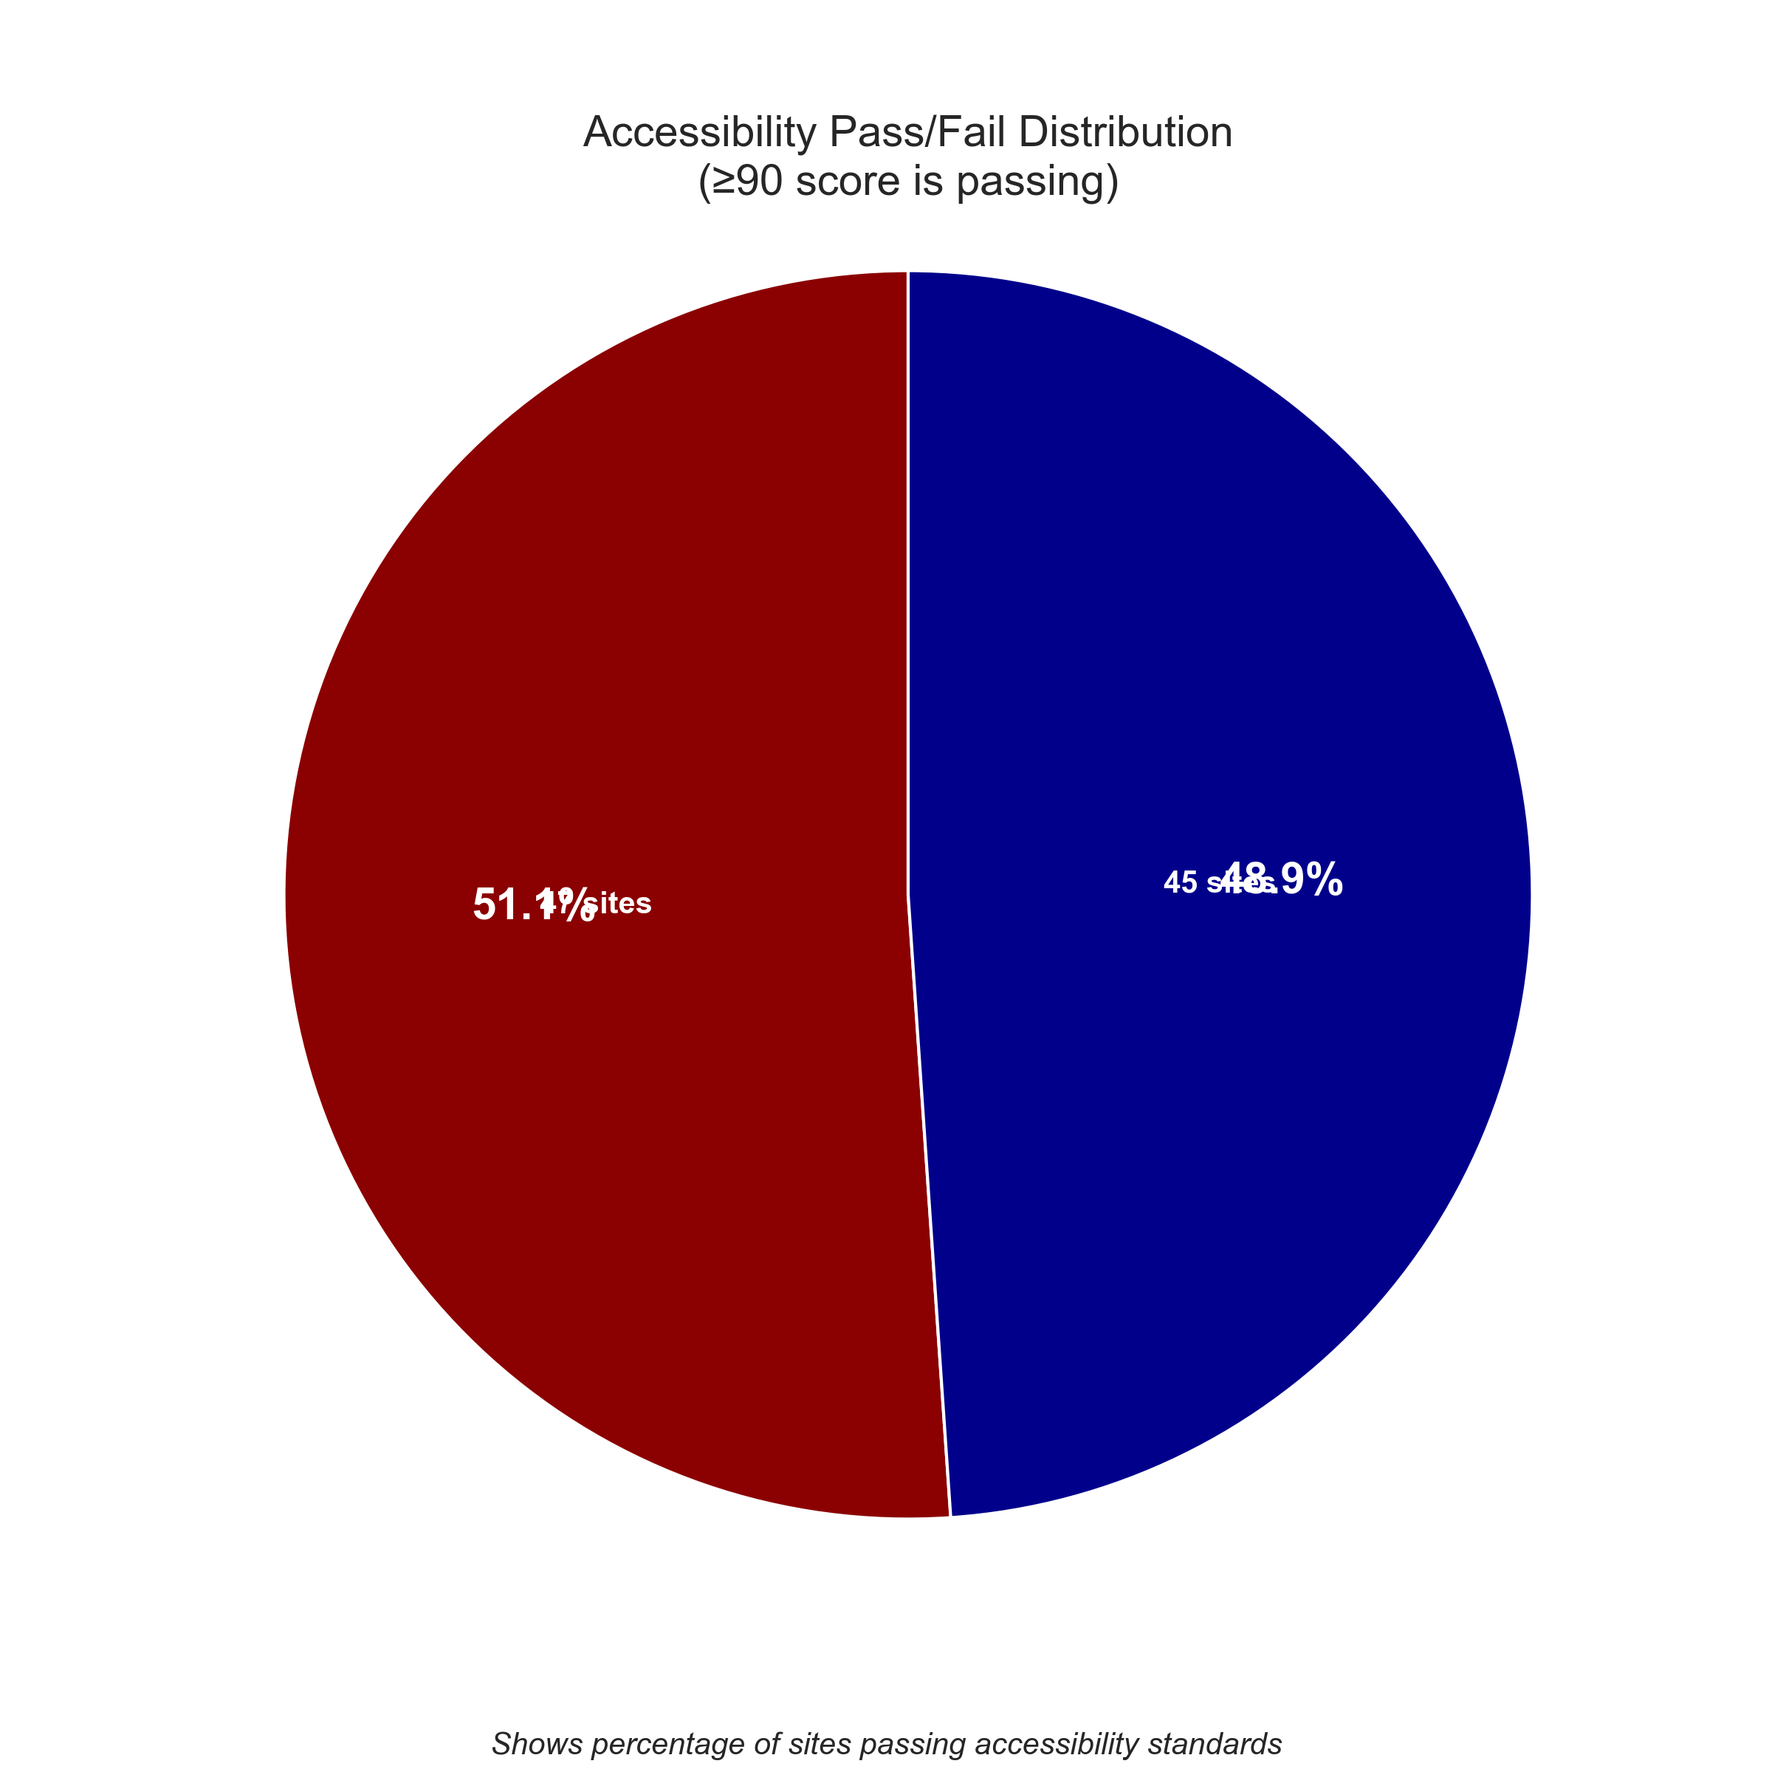
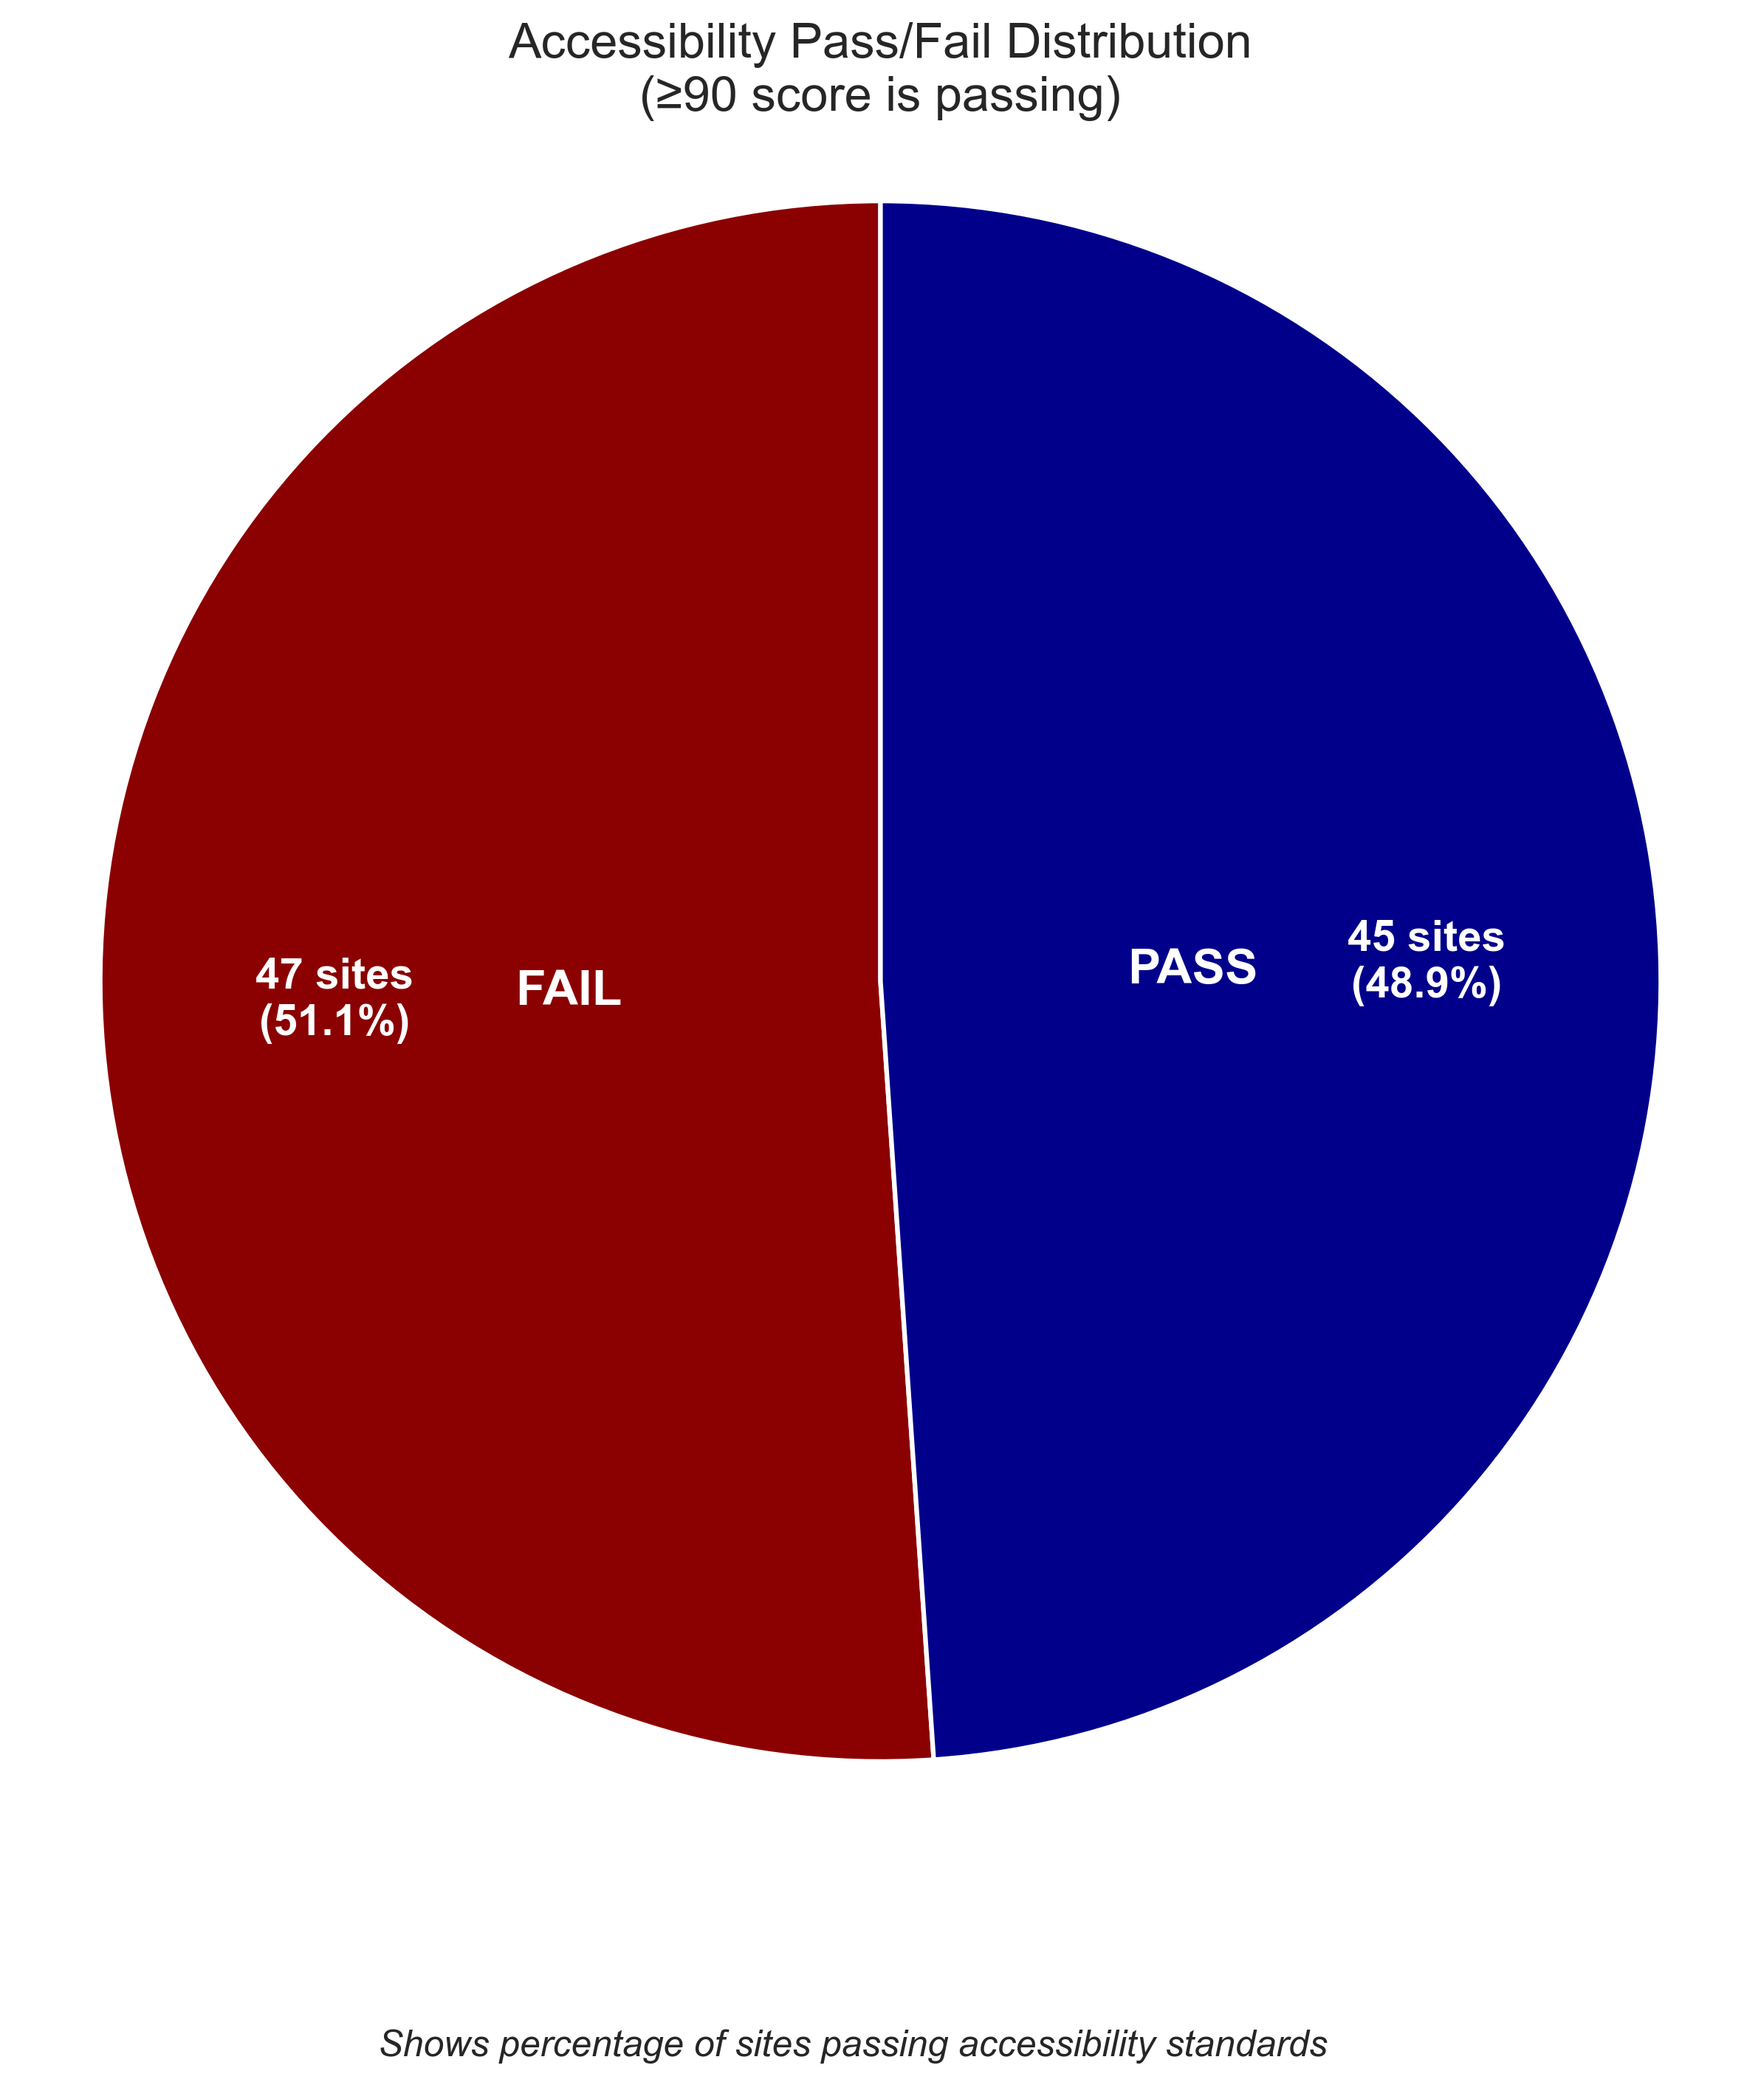
Improve pie chart readability: added 'PASS/FAIL' labels, larger text, and better positioning

diff --git a/analytics_and_eda.py b/analytics_and_eda.py
@@ -187,7 +187,7 @@ def analyze_accessibility_issues(df):
     
     # Create pass/fail distribution visualization
     if 'AccessibilityResult' in df.columns:
-        plt.figure(figsize=(8, 8))
+        plt.figure(figsize=(10, 10))  # Larger figure
         pass_counts = df['AccessibilityResult'].value_counts()
         
         # Get actual counts for annotations
@@ -196,31 +196,58 @@ def analyze_accessibility_issues(df):
         total_count = pass_count + fail_count
         
         # Create pie chart with detailed labels
-        wedges, texts, autotexts = plt.pie(pass_counts, labels=pass_counts.index, 
-                autopct='%1.1f%%', startangle=90,
-                colors=['#8B0000','#00008B'], textprops={'color': 'white', 'fontweight': 'bold'})
+        wedges, _ = plt.pie(  # Note: only need to capture wedges
+            pass_counts, 
+            labels=None,  # Remove default labels, we'll add custom ones
+            autopct=None,  # Remove default percentage, we'll add custom ones
+            startangle=90,
+            colors=['#8B0000','#00008B'], 
+            wedgeprops={'edgecolor': 'white', 'linewidth': 1.5}
+        )
         
-        # Add count information inside the wedges
+        # Add custom labels with pass/fail status, count and percentage
         for i, wedge in enumerate(wedges):
             count = pass_count if i == 1 else fail_count  # Adjust based on your data order
+            pct = 100 * count / total_count
+            status = "PASS" if i == 1 else "FAIL"
+            
             ang = (wedge.theta2 - wedge.theta1) / 2. + wedge.theta1
             y = np.sin(np.deg2rad(ang))
             x = np.cos(np.deg2rad(ang))
             
-            # Determine text color based on background
-            plt.annotate(f'{count} sites', 
-                     xy=(x * 0.5, y * 0.5),  # Use radius of 0.5 to place inside
-                     ha='center', va='center',
-                     fontsize=10, fontweight='bold',
-                     color='white')
+            # Status label (PASS/FAIL)
+            plt.annotate(
+                status, 
+                xy=(x * 0.4, y * 0.4),  # Position closer to center
+                ha='center', va='center',
+                fontsize=16, fontweight='bold',  # Larger font
+                color='white'
+            )
+            
+            # Count and percentage
+            plt.annotate(
+                f"{count} sites\n({pct:.1f}%)", 
+                xy=(x * 0.7, y * 0.7),  # Position further from center
+                ha='center', va='center',
+                fontsize=14, fontweight='bold',  # Larger font
+                color='white'
+            )
                 
         plt.axis('equal')
-        plt.title('Accessibility Pass/Fail Distribution\n(≥90 score is passing)', fontsize=14)
-        plt.figtext(0.5, 0.01, 'Shows percentage of sites passing accessibility standards',
-                   ha='center', fontsize=10, fontstyle='italic')
+        plt.title('Accessibility Pass/Fail Distribution\n(≥90 score is passing)', fontsize=16)
+        
+        # Move explanation text to a better position
+        plt.figtext(
+            0.5, 0.01, 
+            'Shows percentage of sites passing accessibility standards',
+            ha='center', 
+            fontsize=12,  # Larger font
+            fontstyle='italic',
+            bbox={'facecolor': 'white', 'alpha': 0.7, 'pad': 5}
+        )
         
         file_path = os.path.join(output_dir, "pass_fail_distribution.png")
-        plt.savefig(file_path)
+        plt.savefig(file_path, bbox_inches='tight', dpi=300)
         print(f"Saved pass/fail distribution to {file_path}")
     
     # Return the dictionary rather than the sorted list for compatibility with existing functions
@@ -290,36 +317,58 @@ def create_accessibility_dashboard(df):
         # Get actual counts for annotations
         pass_count = pass_counts.get('Pass', 0)
         fail_count = pass_counts.get('Fail', 0)
+        total_count = pass_count + fail_count
         
-        # Create pie chart
-        wedges, texts, autotexts = ax_pass_fail.pie(
+        # Create pie chart without default labels
+        wedges, _ = ax_pass_fail.pie(  # Note: only need to capture wedges
             pass_counts, 
-            labels=pass_counts.index, 
-            autopct='%1.1f%%', 
+            labels=None,  # Remove default labels
+            autopct=None,  # Remove default percentage
             startangle=90,
-            colors=['#8B0000','#00008B'], 
-            textprops={'color': 'white', 'fontweight': 'bold'}
+            colors=['#8B0000','#00008B'],
+            wedgeprops={'edgecolor': 'white', 'linewidth': 1.5}
         )
         
-        # Add count information inside the wedges
+        # Add custom labels with pass/fail status, count and percentage
         for i, wedge in enumerate(wedges):
-            count = pass_count if i == 1 else fail_count  # Adjust based on your data order
+            count = pass_count if i == 1 else fail_count
+            pct = 100 * count / total_count
+            status = "PASS" if i == 1 else "FAIL"
+            
             ang = (wedge.theta2 - wedge.theta1) / 2. + wedge.theta1
             y = np.sin(np.deg2rad(ang))
             x = np.cos(np.deg2rad(ang))
             
-            ax_pass_fail.annotate(f'{count} sites', 
-                              xy=(x * 0.5, y * 0.5),  # Use radius of 0.5 to place inside
-                              ha='center', va='center',
-                              fontsize=9, fontweight='bold',
-                              color='white')
-                
-        ax_pass_fail.set_title('Accessibility Pass/Fail Distribution (≥90)')
+            # Status label (PASS/FAIL)
+            ax_pass_fail.annotate(
+                status, 
+                xy=(x * 0.4, y * 0.4),  # Position closer to center
+                ha='center', va='center',
+                fontsize=14, fontweight='bold',  # Larger font
+                color='white'
+            )
+            
+            # Count and percentage
+            ax_pass_fail.annotate(
+                f"{count} sites\n({pct:.1f}%)", 
+                xy=(x * 0.7, y * 0.7),  # Position further from center
+                ha='center', va='center',
+                fontsize=11, fontweight='bold',
+                color='white'
+            )
+        
+        ax_pass_fail.set_title('Accessibility Pass/Fail Distribution (≥90)', fontsize=14)
         ax_pass_fail.axis('equal')
         
-        # Add descriptive text
-        ax_pass_fail.text(0, -1.3, 'Proportion of sites meeting accessibility standards', 
-                        ha='center', fontsize=9, fontstyle='italic')
+        # Add descriptive text with background for better readability
+        ax_pass_fail.text(
+            0, -1.3, 
+            'Proportion of sites meeting accessibility standards', 
+            ha='center', 
+            fontsize=10, 
+            fontstyle='italic',
+            bbox={'facecolor': 'white', 'alpha': 0.7, 'pad': 5}
+        )
     
     # 3. Top Issues Bar Chart
     ax_issues = fig.add_subplot(gs[1, 0])
@@ -664,52 +713,69 @@ def analyze_severity_distribution(df):
             print(f"\nSeverity from {tested_sites} sites: {', '.join([f'{k}: {v}' for k, v in severity_data.items()])}")
             
             # Create a single figure with a pie chart
-            plt.figure(figsize=(12, 9))
+            plt.figure(figsize=(12, 10))  # Larger figure
             
             # Define colors for severity levels using red and blue palette
             colors = {'High': '#8B0000', 'Medium': '#D21F3C', 'Low': '#00008B', 'Unknown': '#808080'}
             sorted_data = sorted(severity_data.items(), 
                                key=lambda x: {'High': 0, 'Medium': 1, 'Low': 2, 'Unknown': 3}.get(x[0], 4))
-            labels = [f"{k}" for k, _ in sorted_data]  # Simplify main labels
-            sizes = [v for _, v in sorted_data]
             
-            # Explode the high severity slice
-            explode = [0.1 if k[0] == 'High' else 0.05 if k[0] == 'Medium' else 0 for k in sorted_data]
-            
-            # Create pie chart
-            wedges, texts, autotexts = plt.pie(
-                sizes, 
-                explode=explode, 
-                labels=labels, 
-                autopct='%1.1f%%', 
+            # Create pie chart without default labels and percentages
+            wedges, _ = plt.pie(  # Note: only need to capture wedges
+                [v for _, v in sorted_data], 
+                explode=[0.1 if k[0] == 'High' else 0.05 if k[0] == 'Medium' else 0 for k in sorted_data],
+                labels=None,  # Remove default labels
+                autopct=None,  # Remove default percentages
                 startangle=90,
                 colors=[colors.get(k, '#BDBDBD') for k, _ in sorted_data], 
-                shadow=True, 
-                textprops={'color': 'white', 'fontweight': 'bold'}
+                shadow=True,
+                wedgeprops={'edgecolor': 'white', 'linewidth': 1}
             )
             
-            # Add count inside each wedge
+            # Add custom labels with severity level, count and percentage
             for i, (k, v) in enumerate(sorted_data):
                 ang = (wedges[i].theta2 - wedges[i].theta1) / 2. + wedges[i].theta1
                 y = np.sin(np.deg2rad(ang))
                 x = np.cos(np.deg2rad(ang))
+                pct = 100 * v / sum(v for _, v in sorted_data)
                 
                 # Adjust radius based on the wedge size
-                radius = 0.5
-                if v / sum(sizes) < 0.1:  # For very small wedges
-                    radius = 0.7
+                severity_radius = 0.35  # For severity label (closer to center)
+                count_radius = 0.7     # For count and percentage (further from center)
                 
-                # Add count inside
-                plt.annotate(f'{v} sites', 
-                         xy=(x * radius, y * radius),
-                         ha='center', va='center',
-                         fontsize=9, fontweight='bold',
-                         color='white')
+                if pct < 10:  # For very small wedges
+                    count_radius = 0.85
+                
+                # Add severity level
+                plt.annotate(
+                    k.upper(), 
+                    xy=(x * severity_radius, y * severity_radius),
+                    ha='center', va='center',
+                    fontsize=14, fontweight='bold',  # Larger font
+                    color='white'
+                )
+                
+                # Add count and percentage
+                plt.annotate(
+                    f"{v} sites\n({pct:.1f}%)", 
+                    xy=(x * count_radius, y * count_radius),
+                    ha='center', va='center',
+                    fontsize=12, fontweight='bold',  # Larger font
+                    color='white'
+                )
             
             plt.axis('equal')
-            plt.title('Keyboard Focus Issues by Severity', fontsize=16)
-            plt.figtext(0.5, 0.01, 'Distribution of keyboard focus issues by severity level\nHelps prioritize remediation efforts', 
-                        ha='center', fontsize=10, fontstyle='italic')
+            plt.title('Keyboard Focus Issues by Severity', fontsize=18)
+            
+            # Move explanation text to a better position with background
+            plt.figtext(
+                0.5, 0.01, 
+                'Distribution of keyboard focus issues by severity level\nHelps prioritize remediation efforts',
+                ha='center', 
+                fontsize=12,  # Larger font
+                fontstyle='italic',
+                bbox={'facecolor': 'white', 'alpha': 0.7, 'pad': 5}
+            )
             
             # Improve overall appearance
             plt.tight_layout()
